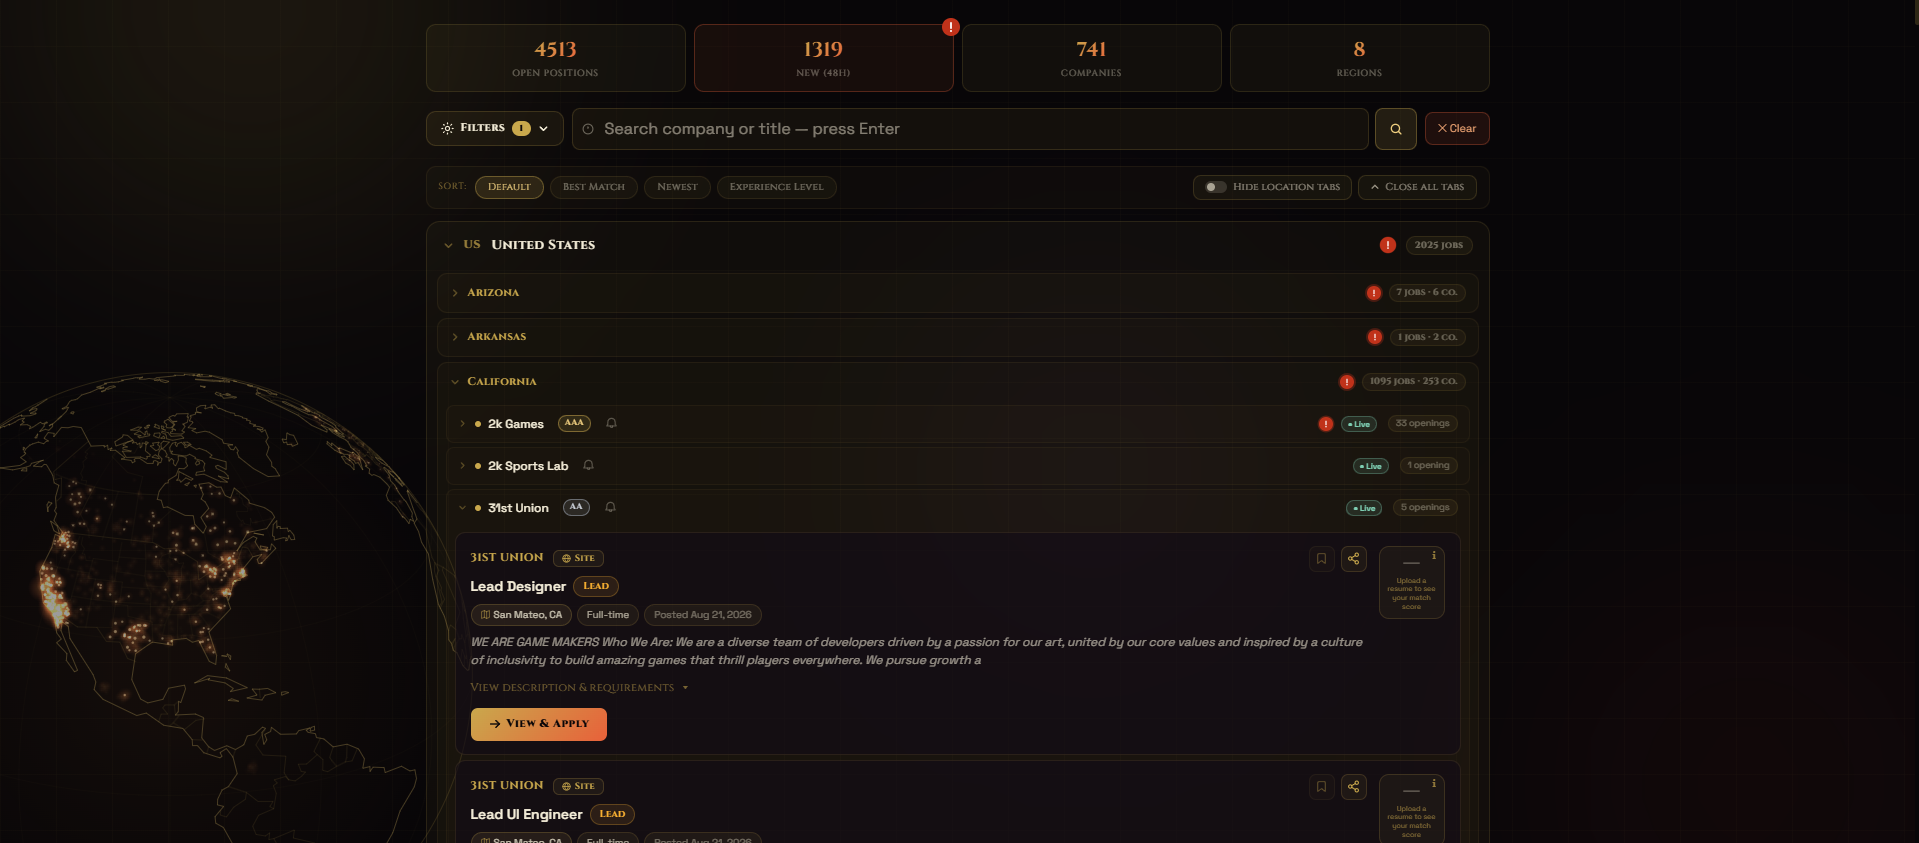
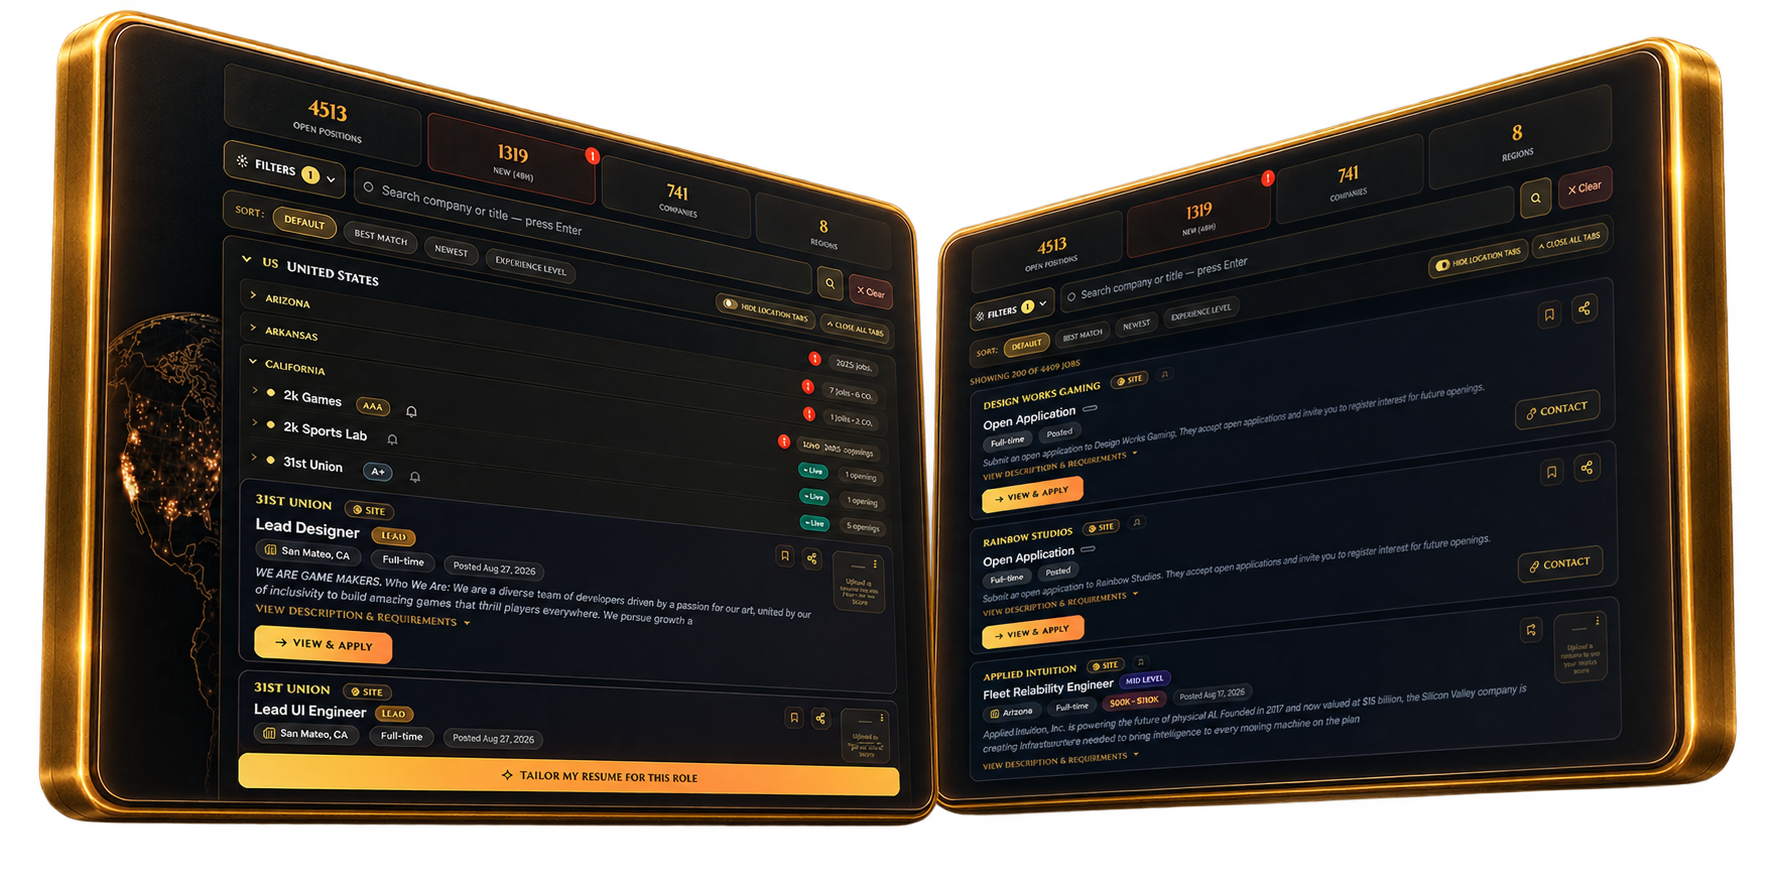
Signup page: 3-tier plan selection (Basic/Plus/Premium) + join checkout/finalize by plan

diff --git a/pages/join.js b/pages/join.js
@@ -4,30 +4,30 @@ import { useRouter } from "next/router";
 import { supabase } from "../lib/supabase";
 
 const TOS_VERSION = "2026-06-20";
-const MONTHLY = 4.99, ANNUAL = 49.99, LIFETIME = 119.99;
+const PLUS_M = 3.99, PLUS_Y = 39.99, PREM_M = 7.99, PREM_Y = 79.99, LIFETIME = 189.99;
 const PCT_OFF = Math.round((1 - ANNUAL / (MONTHLY * 12)) * 100);
 
 const FEATURES = {
-  free: [
+  basic: [
     "Full access to the entire job board",
     "Apply to any listing",
     "Track all your applications",
-    "Follow companies for new-posting alerts",
-    "Free forever — no card required",
+    "Follow up to 5 companies for alerts",
+    "Job match score on every listing",
+  ],
+  plus: [
+    "Everything in Basic",
+    "Full match score breakdown",
+    "Email autofill templates",
+    "Targeted alerts by role, location, company & seniority",
+    "Follow up to 15 companies",
   ],
   premium: [
-    "Everything in Free",
-    "Job Match Score on every listing",
-    "One-click email autofill for applications",
-    "Targeted alerts by role, location, company & seniority",
-    "Price-lock guarantee — your rate never rises, even as new features are added",
-  ],
-  lifetime: [
-    "Everything in Premium",
-    "One payment — yours for life",
-    "Every future feature included, for life",
-    "No recurring billing, ever",
-    "*Excludes any future AI features that consume usage-based tokens",
+    "Everything in Plus",
+    "AI resume tailoring",
+    "AI email autofill & template generation",
+    "AI company interview prep",
+    "40 AI uses / month + unlimited company alerts",
   ],
 };
 
@@ -38,8 +38,9 @@ export default function Join() {
   const [pass, setPass] = useState("");
   const [show, setShow] = useState(false);
   const [agreed, setAgreed] = useState(false);
-  const [selected, setSelected] = useState(null); // "free" | "premium" | "lifetime"
-  const [billing, setBilling] = useState("monthly"); // for premium: "monthly" | "annual"
+  const [selected, setSelected] = useState(null); // "basic" | "plus" | "premium"
+  const [billing, setBilling] = useState("monthly"); // "monthly" | "annual"
+  const [lifetime, setLifetime] = useState(false); // Premium one-time option
   const [err, setErr] = useState("");
   const [busy, setBusy] = useState(false);
   const [finishing, setFinishing] = useState(false); // completing after paid checkout
@@ -59,9 +60,9 @@ export default function Join() {
           setEmail(pend.email || "");
           setPass(pend.password || "");
           setAgreed(true);
-          setSelected(pend.plan === "lifetime" ? "lifetime" : "premium");
-          if (pend.plan === "annual") setBilling("annual");
-          if (pend.plan === "monthly") setBilling("monthly");
+          setSelected(pend.plan || "premium");
+          if (pend.cycle === "yearly") setBilling("annual");
+          if (pend.cycle === "lifetime") setLifetime(true);
         }
       } catch (e) {}
       router.replace("/join", undefined, { shallow: true });
@@ -117,7 +118,7 @@ export default function Join() {
     if (!selected) return setErr("Choose a plan to continue.");
     setBusy(true);
     try {
-      if (selected === "free") {
+      if (selected === "basic") {
         const { data, error } = await supabase.auth.signUp({ email, password: pass });
         if (error) { setErr(error.message); setBusy(false); return; }
         await supabase.from("profiles").insert({ id: data.user.id, name, data: { tosVersion: TOS_VERSION } });
@@ -126,12 +127,12 @@ export default function Join() {
         return;
       }
       // Paid: stash credentials for the return trip, then go to Stripe.
-      const plan = selected === "lifetime" ? "lifetime" : (billing === "annual" ? "annual" : "monthly");
-      try { sessionStorage.setItem("mq_pending_signup", JSON.stringify({ name, email, password: pass, plan })); } catch (e) {}
+      const cyc = (selected === "premium" && lifetime) ? "lifetime" : (billing === "annual" ? "yearly" : "monthly");
+      try { sessionStorage.setItem("mq_pending_signup", JSON.stringify({ name, email, password: pass, plan: selected, cycle: cyc })); } catch (e) {}
       const r = await fetch("/api/stripe/join-checkout", {
         method: "POST",
         headers: { "Content-Type": "application/json" },
-        body: JSON.stringify({ email, plan }),
+        body: JSON.stringify({ email, plan: selected, cycle: cyc }),
       });
       const j = await r.json();
       if (j.url) { window.location.href = j.url; return; }
@@ -143,9 +144,10 @@ export default function Join() {
     }
   }
 
-  const premiumPrice = billing === "annual" ? ANNUAL : MONTHLY;
-  const premiumUnit = billing === "annual" ? "/yr" : "/mo";
-  const proceedLabel = selected === "free" ? "Enter Main Quest →" : selected ? "Continue to Payment →" : "Select a plan";
+  const plusPrice = billing === "annual" ? PLUS_Y : PLUS_M;
+  const premPrice = billing === "annual" ? PREM_Y : PREM_M;
+  const unit = billing === "annual" ? "/yr" : "/mo";
+  const proceedLabel = selected === "basic" ? "Enter Main Quest →" : selected ? "Continue to Payment →" : "Select a plan";
   const inp = { background: "rgba(201,168,76,.06)", border: "1px solid rgba(201,168,76,.2)", color: "#f4edd8", colorScheme: "dark", borderRadius: 9, padding: "12px 14px", fontSize: 13, fontFamily: "inherit", width: "100%", boxSizing: "border-box", outline: "none" };
 
   return (
@@ -214,49 +216,40 @@ export default function Join() {
               <div style={{ textAlign: "center", fontFamily: "'Cinzel',serif", fontSize: 15, color: "#f0d080", letterSpacing: 1, marginBottom: 4 }}>Choose Your Path</div>
               <div style={{ textAlign: "center", fontSize: 12, color: "rgba(244,237,216,.45)", marginBottom: 20 }}>Select a plan to finish creating your account.</div>
 
-              <div className="qgrid">
-                {/* BASIC (free) */}
-                <div className={"qcard" + (selected === "free" ? " qsel" : "")} onClick={() => setSelected("free")}>
-                  <div style={{ fontFamily: "'Cinzel',serif", fontSize: 13, letterSpacing: 1.5, textTransform: "uppercase", color: "rgba(244,237,216,.6)", textAlign: "center" }}>Basic</div>
-                  <div style={{ textAlign: "center", margin: "8px 0 4px" }}><span style={{ fontFamily: "'Cinzel',serif", fontSize: 40, fontWeight: 800, color: "#f4edd8" }}>FREE</span></div>
-                  <div style={{ textAlign: "center", fontSize: 11, color: "rgba(244,237,216,.4)", marginBottom: 16 }}>Free forever</div>
-                  <FeatureList items={FEATURES.free} />
-                  <SelectPip on={selected === "free"} />
+              <div style={{display:"flex",justifyContent:"center",marginBottom:16}} onClick={e=>e.stopPropagation()}>
+                <div style={{display:"inline-flex",background:"rgba(201,168,76,.08)",border:"1px solid rgba(201,168,76,.2)",borderRadius:20,padding:3}}>
+                  {["monthly","annual"].map(b => (
+                    <button key={b} type="button" onClick={() => setBilling(b)} style={{background:billing===b?"linear-gradient(135deg,#c9a84c,#f0d080)":"transparent",color:billing===b?"#0a0608":"rgba(244,237,216,.7)",border:"none",borderRadius:18,padding:"6px 18px",fontSize:12,fontWeight:700,fontFamily:"'Cinzel',serif",cursor:"pointer"}}>{b==="monthly"?"Monthly":"Yearly"}{b==="annual" && <span style={{fontSize:9,marginLeft:5,opacity:.85}}>save ~16%</span>}</button>
+                  ))}
                 </div>
-
+              </div>
+              <div className="qgrid">
+                {/* BASIC */}
+                <div className={"qcard" + (selected === "basic" ? " qsel" : "")} onClick={() => setSelected("basic")}>
+                  <div style={{ fontFamily: "'Cinzel',serif", fontSize: 13, letterSpacing: 1.5, textTransform: "uppercase", color: "rgba(244,237,216,.6)", textAlign: "center" }}>Basic</div>
+                  <div style={{ textAlign: "center", margin: "8px 0 4px" }}><span style={{ fontFamily: "'Cinzel',serif", fontSize: 40, fontWeight: 800, color: "#f4edd8" }}>$0</span></div>
+                  <div style={{ textAlign: "center", fontSize: 11, color: "rgba(244,237,216,.4)", marginBottom: 16 }}>Free forever</div>
+                  <FeatureList items={FEATURES.basic} />
+                  <SelectPip on={selected === "basic"} />
+                </div>
+                {/* PLUS */}
+                <div className={"qcard" + (selected === "plus" ? " qsel" : "")} onClick={() => setSelected("plus")}>
+                  <div style={{ fontFamily: "'Cinzel',serif", fontSize: 13, letterSpacing: 1.5, textTransform: "uppercase", color: "rgba(244,237,216,.78)", textAlign: "center" }}>Plus</div>
+                  <div style={{ textAlign: "center", margin: "8px 0 2px" }}><span style={{ fontFamily: "'Cinzel',serif", fontSize: 40, fontWeight: 800, color: "#f0d080" }}>${plusPrice}</span><span style={{ fontSize: 13, color: "rgba(244,237,216,.45)", fontWeight: 600 }}>{unit}</span></div>
+                  <div style={{ textAlign: "center", fontSize: 10.5, color: "rgba(244,237,216,.35)", marginBottom: 14, minHeight: 14 }}>{billing === "annual" ? "Billed yearly" : "Billed monthly"}</div>
+                  <FeatureList items={FEATURES.plus} />
+                  <SelectPip on={selected === "plus"} />
+                </div>
                 {/* PREMIUM */}
                 <div className={"qcard qprem" + (selected === "premium" ? " qsel" : "")} onClick={() => setSelected("premium")}>
                   <div className="qbadge" style={{ background: "linear-gradient(135deg,#c9a84c,#f0d080)", color: "#0a0608" }}>Most Popular</div>
-                  <div style={{ display: "flex", alignItems: "center", justifyContent: "center", gap: 6 }}>
-                    <span style={{ fontFamily: "'Cinzel',serif", fontSize: 13, letterSpacing: 1.5, textTransform: "uppercase", background: "linear-gradient(135deg,#c9a84c,#f0d080)", WebkitBackgroundClip: "text", WebkitTextFillColor: "transparent", fontWeight: 800 }}>Premium</span>
+                  <div style={{ fontFamily: "'Cinzel',serif", fontSize: 13, letterSpacing: 1.5, textTransform: "uppercase", background: "linear-gradient(135deg,#c9a84c,#f0d080)", WebkitBackgroundClip: "text", WebkitTextFillColor: "transparent", fontWeight: 800, textAlign: "center" }}>Premium</div>
+                  <div style={{ textAlign: "center", margin: "8px 0 2px" }}><span style={{ fontFamily: "'Cinzel',serif", fontSize: 40, fontWeight: 800, color: "#f0d080" }}>${lifetime ? LIFETIME : premPrice}</span><span style={{ fontSize: 13, color: "rgba(244,237,216,.45)", fontWeight: 600 }}>{lifetime ? " one-time" : unit}</span></div>
+                  <div onClick={e => e.stopPropagation()} style={{ display: "flex", justifyContent: "center", marginBottom: 12, minHeight: 20 }}>
+                    <label style={{ display: "inline-flex", alignItems: "center", gap: 6, fontSize: 11, color: "rgba(244,237,216,.6)", cursor: "pointer" }}><input type="checkbox" checked={lifetime} onChange={e => setLifetime(e.target.checked)} style={{ accentColor: "#c9a84c" }} />Lifetime — ${LIFETIME}</label>
                   </div>
-                  <div style={{ textAlign: "center", margin: "8px 0 2px" }}>
-                    <span style={{ fontFamily: "'Cinzel',serif", fontSize: 40, fontWeight: 800, color: "#f0d080" }}>${premiumPrice}</span>
-                    <span style={{ fontSize: 13, color: "rgba(244,237,216,.45)", fontWeight: 600 }}>{premiumUnit}</span>
-                  </div>
-                  {/* Monthly / Yearly toggle */}
-                  <div onClick={e => e.stopPropagation()} style={{ display: "flex", justifyContent: "center", marginBottom: 4 }}>
-                    <div style={{ display: "inline-flex", background: "rgba(201,168,76,.08)", border: "1px solid rgba(201,168,76,.2)", borderRadius: 20, padding: 2 }}>
-                      {["monthly", "annual"].map(b => (
-                        <button key={b} onClick={() => setBilling(b)} style={{ background: billing === b ? "linear-gradient(135deg,#c9a84c,#f0d080)" : "transparent", color: billing === b ? "#0a0608" : "rgba(244,237,216,.55)", border: "none", cursor: "pointer", borderRadius: 20, fontSize: 10.5, fontWeight: 700, padding: "5px 13px", fontFamily: "'Cinzel',serif" }}>{b === "monthly" ? "Monthly" : "Yearly"}</button>
-                      ))}
-                    </div>
-                  </div>
-                  <div style={{ textAlign: "center", fontSize: 10.5, color: billing === "annual" ? "#7ecfb3" : "rgba(244,237,216,.35)", marginBottom: 14, minHeight: 14 }}>{billing === "annual" ? `Save ${PCT_OFF}% vs monthly` : `or $${ANNUAL}/yr — save ${PCT_OFF}%`}</div>
                   <FeatureList items={FEATURES.premium} gold />
                   <SelectPip on={selected === "premium"} />
-                </div>
-
-                {/* LIFETIME */}
-                <div className={"qcard qlife" + (selected === "lifetime" ? " qsel" : "")} onClick={() => setSelected("lifetime")}>
-                  <div className="qbadge" style={{ background: "linear-gradient(135deg,#f0d080,#e8613a)", color: "#0a0608", boxShadow: "0 4px 16px rgba(232,97,58,.45)" }}>Best Value</div>
-                  <div style={{ fontFamily: "'Cinzel',serif", fontSize: 13, letterSpacing: 1.5, textTransform: "uppercase", color: "#e8a070", textAlign: "center", fontWeight: 800 }}>Lifetime</div>
-                  <div style={{ textAlign: "center", margin: "8px 0 2px" }}>
-                    <span style={{ fontFamily: "'Cinzel',serif", fontSize: 40, fontWeight: 800, color: "#f0d080" }}>${LIFETIME}</span>
-                  </div>
-                  <div style={{ textAlign: "center", fontSize: 11, color: "rgba(244,237,216,.4)", marginBottom: 16 }}>One payment · yours for life</div>
-                  <FeatureList items={FEATURES.lifetime} gold />
-                  <SelectPip on={selected === "lifetime"} />
                 </div>
               </div>
 

diff --git a/pages/api/stripe/join-checkout.js b/pages/api/stripe/join-checkout.js
@@ -1,42 +1,39 @@
 // POST /api/stripe/join-checkout
-// Starts a Stripe Checkout session for a NEW visitor who has not created an
-// account yet (the join flow defers account creation until payment succeeds).
-// On success Stripe returns to /join?checkout=success&session_id=..., where the
-// client creates the account and calls /api/stripe/finalize to grant Premium.
+// Checkout for a NEW visitor (account created after payment succeeds).
 import { stripe } from "../../../lib/stripe";
 
-const SITE_URL = process.env.NEXT_PUBLIC_SITE_URL || "https://main-quest-beta.vercel.app";
+const SITE_URL = process.env.NEXT_PUBLIC_SITE_URL || "https://mainquestjobs.com";
 
-const PLANS = {
-  monthly:  { price: process.env.STRIPE_PRICE_MONTHLY,  mode: "subscription" },
-  annual:   { price: process.env.STRIPE_PRICE_ANNUAL,   mode: "subscription" },
-  lifetime: { price: process.env.STRIPE_PRICE_LIFETIME, mode: "payment" },
+const PRICES = {
+  "plus:monthly":     { price: process.env.STRIPE_PRICE_PLUS_MONTHLY,     mode: "subscription", plan: "plus" },
+  "plus:yearly":      { price: process.env.STRIPE_PRICE_PLUS_YEARLY,      mode: "subscription", plan: "plus" },
+  "premium:monthly":  { price: process.env.STRIPE_PRICE_PREMIUM_MONTHLY,  mode: "subscription", plan: "premium" },
+  "premium:yearly":   { price: process.env.STRIPE_PRICE_PREMIUM_YEARLY,   mode: "subscription", plan: "premium" },
+  "premium:lifetime": { price: process.env.STRIPE_PRICE_PREMIUM_LIFETIME, mode: "payment",      plan: "premium" },
 };
 
 export default async function handler(req, res) {
-  if (req.method !== "POST") {
-    res.setHeader("Allow", "POST");
-    return res.status(405).json({ error: "Method not allowed" });
-  }
+  if (req.method !== "POST") { res.setHeader("Allow", "POST"); return res.status(405).json({ error: "Method not allowed" }); }
   try {
-    const { email, plan } = req.body || {};
+    const { email, plan, cycle } = req.body || {};
     if (!email) return res.status(400).json({ error: "Missing email" });
+    const tier = (plan === "plus" || plan === "premium") ? plan : "premium";
+    const cyc = (cycle === "yearly" || cycle === "lifetime") ? cycle : "monthly";
+    const key = `${tier}:${cyc}`;
+    const chosen = PRICES[key];
+    if (!chosen || !chosen.price) return res.status(500).json({ error: `Price for "${key}" is not configured` });
 
-    const key = PLANS[plan] ? plan : "monthly";
-    const chosen = PLANS[key];
-    if (!chosen.price) return res.status(500).json({ error: `Price for the "${key}" plan is not configured` });
-
+    const meta = { plan: chosen.plan, cycle: cyc, joinFlow: "1" };
     const session = await stripe.checkout.sessions.create({
       mode: chosen.mode,
       line_items: [{ price: chosen.price, quantity: 1 }],
       customer_email: email,
-      metadata: { plan: key, joinFlow: "1" },
-      ...(chosen.mode === "subscription" ? { subscription_data: { metadata: { plan: key, joinFlow: "1" } } } : {}),
+      metadata: meta,
+      ...(chosen.mode === "subscription" ? { subscription_data: { metadata: meta } } : {}),
       allow_promotion_codes: true,
       success_url: `${SITE_URL}/join?checkout=success&session_id={CHECKOUT_SESSION_ID}`,
       cancel_url: `${SITE_URL}/join?checkout=cancel`,
     });
-
     return res.status(200).json({ url: session.url });
   } catch (e) {
     console.error("join-checkout error:", e.message);

diff --git a/pages/api/stripe/finalize.js b/pages/api/stripe/finalize.js
@@ -20,7 +20,7 @@ export default async function handler(req, res) {
       return res.status(402).json({ error: "Payment not completed", paid: false });
     }
 
-    const plan = (session.metadata && session.metadata.plan) || "monthly";
+    const plan = (session.metadata && session.metadata.plan) || "premium";
     const customerId = session.customer || null;
 
     let subStatus = "active";
@@ -38,7 +38,8 @@ export default async function handler(req, res) {
     await supabaseAdmin
       .from("profiles")
       .update({
-        is_premium: true,
+        plan,
+        is_premium: plan === "premium",
         stripe_customer_id: customerId,
         subscription_status: subStatus,
         subscription_period_end: periodEnd,
